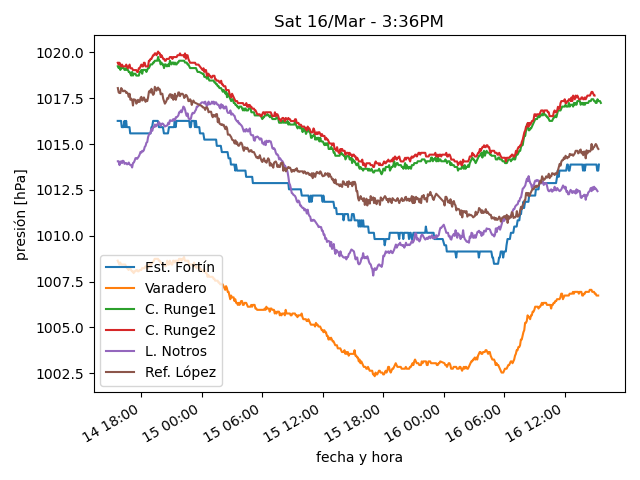
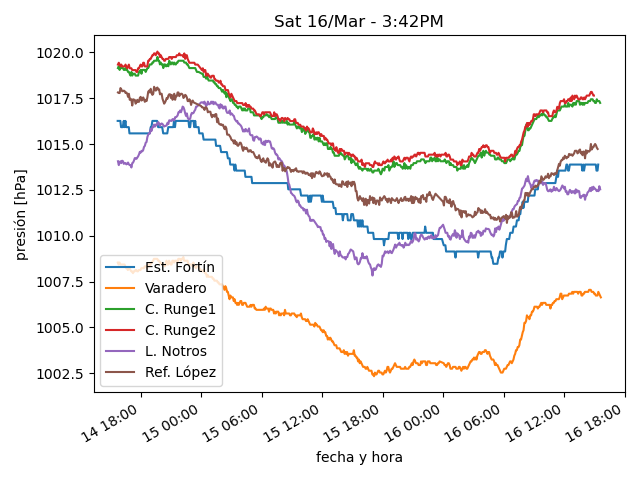
actualiza datos

diff --git a/estaciones/estacion2.html b/estaciones/estacion2.html
@@ -18,7 +18,7 @@
     </tr>
     <tr>
      <td class="stats_data">
-      3:19PM
+      3:39PM
      </td>
     </tr>
     <tr>
@@ -33,17 +33,17 @@
     </tr>
     <tr>
      <td class="stats_data">
-      65.5
+      65.4
      </td>
     </tr>
     <tr>
      <td class="stats_data">
-      1016.22
+      1016.12
      </td>
     </tr>
     <tr>
      <td class="stats_data">
-      38.1/46.1 NW
+      38.9/46.4 NW
      </td>
     </tr>
     <tr>
@@ -53,12 +53,12 @@
     </tr>
     <tr>
      <td class="stats_data">
-      8.0
+      7.0
      </td>
     </tr>
     <tr>
      <td class="stats_data">
-      853.3
+      743.6
      </td>
     </tr>
    </tbody>

diff --git a/estaciones/estacion5.html b/estaciones/estacion5.html
@@ -18,12 +18,12 @@
     </tr>
     <tr>
      <td class="stats_data">
-      3:15PM
+      3:35PM
      </td>
     </tr>
     <tr>
      <td class="stats_data">
-      13.7
+      13.4
      </td>
     </tr>
     <tr>
@@ -33,12 +33,12 @@
     </tr>
     <tr>
      <td class="stats_data">
-      55.0
+      56.0
      </td>
     </tr>
     <tr>
      <td class="stats_data">
-      1015.0
+      1015.1
      </td>
     </tr>
     <tr>
